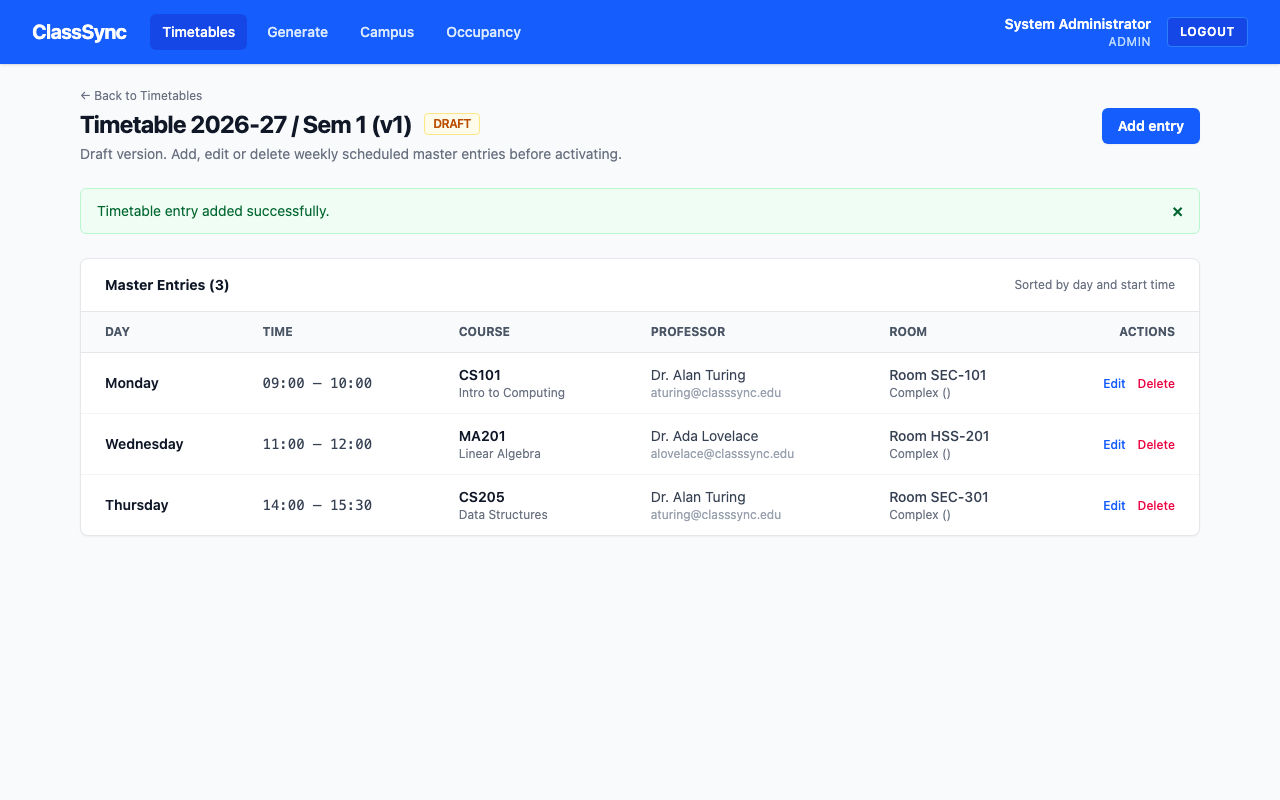
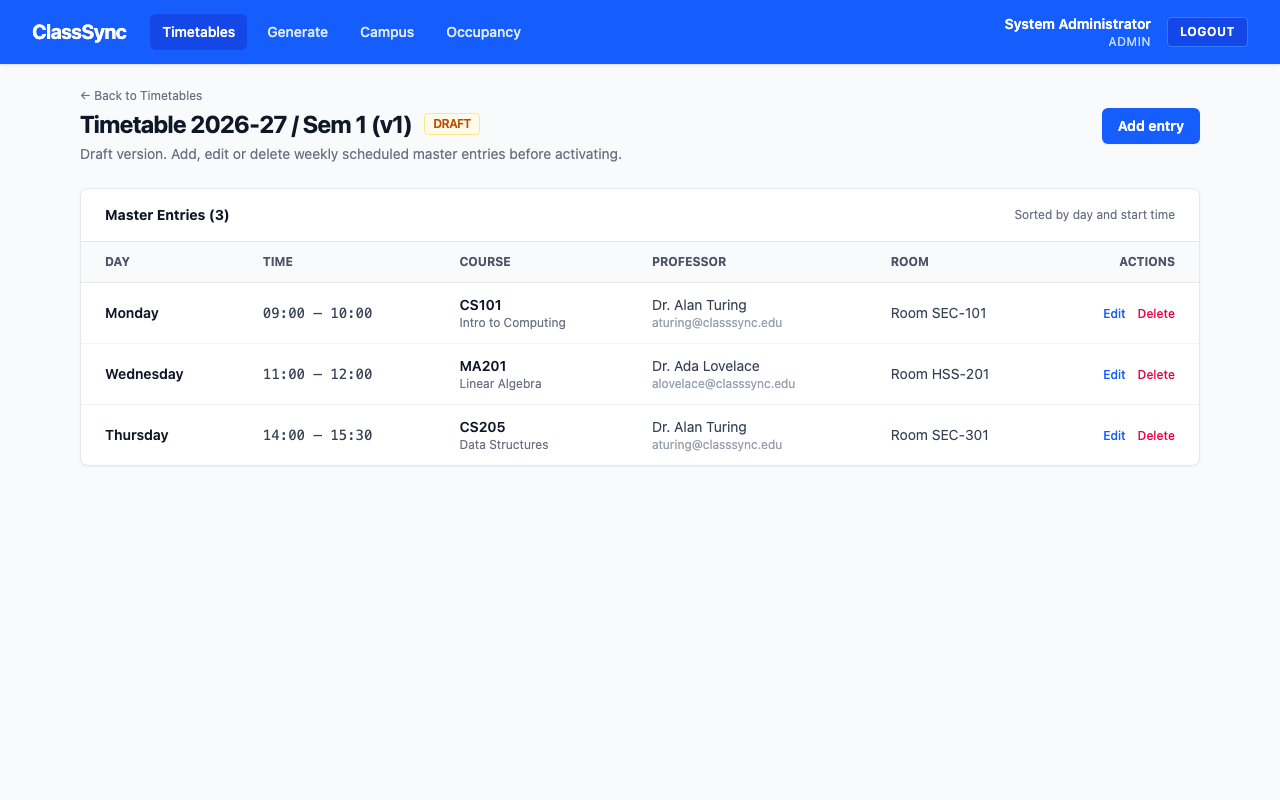
fix(F1.2): remove empty complex label and facilities column

diff --git a/frontend/src/pages/admin/campus/RoomsTab.jsx b/frontend/src/pages/admin/campus/RoomsTab.jsx
@@ -141,21 +141,19 @@ export default function RoomsTab({
               <th className="px-6 py-3 text-left">Room #</th>
               <th className="px-6 py-3 text-left">Type</th>
               <th className="px-6 py-3 text-left">Capacity</th>
-              <th className="px-6 py-3 text-left">Facilities</th>
               <th className="px-6 py-3 text-left">Status</th>
               <th className="px-6 py-3 text-right">Actions</th>
             </tr>
           </thead>
           <tbody className="divide-y divide-gray-100">
             {rooms.length === 0 ? (
-              <tr><td colSpan="6" className="px-6 py-8 text-center text-gray-500">No rooms found for this complex.</td></tr>
+              <tr><td colSpan="5" className="px-6 py-8 text-center text-gray-500">No rooms found for this complex.</td></tr>
             ) : (
               rooms.map((r) => (
                 <tr key={r.id} className="hover:bg-gray-50">
                   <td className="px-6 py-3 font-semibold text-gray-900">{r.roomNumber}</td>
                   <td className="px-6 py-3 text-gray-600">{ROOM_TYPES.find((t) => t.value === r.roomType)?.label || r.roomType}</td>
                   <td className="px-6 py-3 text-gray-600">{r.capacity}</td>
-                  <td className="px-6 py-3 text-xs text-gray-500">{r.facilities?.length > 0 ? r.facilities.map((f) => f.name).join(', ') : '—'}</td>
                   <td className="px-6 py-3"><StatusBadge status={r.active ? 'ACTIVE' : 'INACTIVE'} /></td>
                   <td className="px-6 py-3 text-right space-x-3">
                     <button type="button" onClick={() => openEdit(r)} className="text-blue-600 hover:underline font-medium text-xs">Edit</button>

diff --git a/frontend/src/pages/admin/VersionDetailPage.jsx b/frontend/src/pages/admin/VersionDetailPage.jsx
@@ -203,8 +203,7 @@ export default function VersionDetailPage() {
                         <div className="text-xs text-gray-400">{entry.professor?.email}</div>
                       </td>
                       <td className="px-6 py-3 text-gray-700">
-                        <span className="font-medium">Room {entry.room?.roomNumber}</span>
-                        <span className="text-xs text-gray-500 block">{entry.room?.complex?.name || 'Complex'} ({entry.room?.complex?.code || ''})</span>
+                        Room {entry.room?.roomNumber}
                       </td>
                       {isDraft && (
                         <td className="px-6 py-3 text-right space-x-3">
